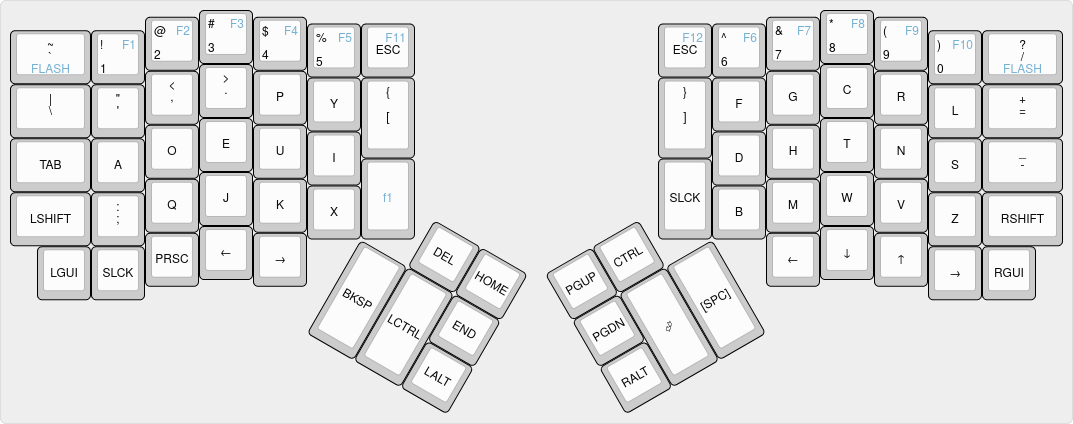
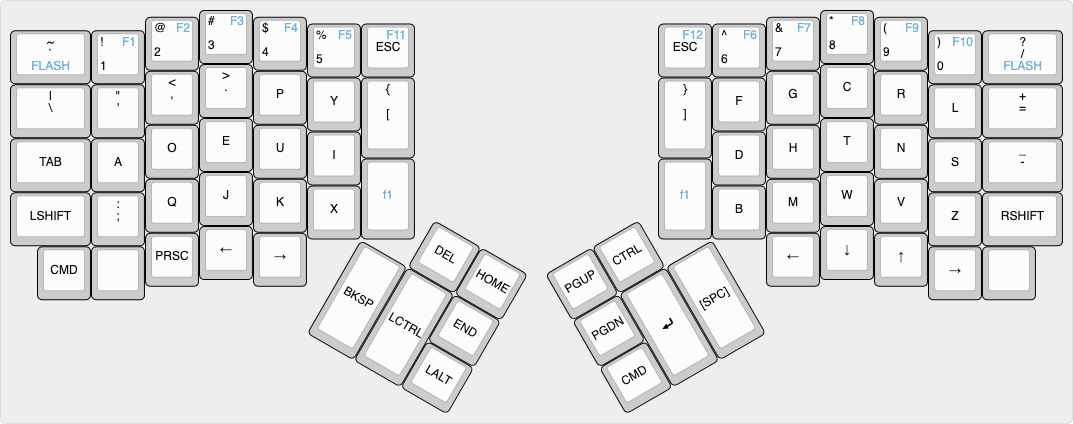
feat(qmk_ez_dvorak): Adjust layout for macOS usage
Put Cmd on the right thumb (replacing RAlt) since Cmd takes over most of
what Ctrl does on Linux, and keep Alt on the left thumb so Alt+Enter
(Aerospace terminal binding) stays a two-thumb chord. Drop the redundant
corner GUI keys and Scroll Lock (no longer used as compose), and replace
Print Screen with a Cmd+Shift+5 macro since macOS ignores the Print
Screen keycode.

diff --git a/qmk_ez_dvorak/keymap.c b/qmk_ez_dvorak/keymap.c
@@ -12,6 +12,7 @@ enum custom_keycodes {
   EPRM = SAFE_RANGE,
 #endif
   VRSN,
+  SCRSHOT,
   RGB_SLD
 };
 
@@ -24,17 +25,17 @@ const uint16_t PROGMEM keymaps[][MATRIX_ROWS][MATRIX_COLS] = {
  * |   \|   |   '  |   ,  |   .  |   P  |   Y  |  [{  |           |  ]}  |   F  |   G  |   C  |   R  |   L  |   =+   |
  * |--------+------+------+------+------+------|      |           |      |------+------+------+------+------+--------|
  * | Tab    |   A  |   O  |   E  |   U  |   I  |------|           |------|   D  |   H  |   T  |   N  |   S  |   -_   |
- * |--------+------+------+------+------+------|  f1  |           | SCRL |------+------+------+------+------+--------|
+ * |--------+------+------+------+------+------|  f1  |           |  f1  |------+------+------+------+------+--------|
  * | LShift |  ;:  |   Q  |   J  |   K  |   X  |      |           |      |   B  |   M  |   W  |   V  |   Z  | RShift |
  * `--------+------+------+------+------+-------------'           `-------------+------+------+------+------+--------'
- *   | LGUI | SCRL | PSCR | Left | Right|                                       | Left | Down |  Up  |Right | RGui |
+ *   | LGUI |      | Shot | Left | Right|                                       | Left | Down |  Up  |Right |      |
  *   `----------------------------------'                                       `----------------------------------'
  *                                        ,-------------.       ,-------------.
- *                                        | Del  | Home |       | PgUp |Ctrl/Esc|
+ *                                        | Del  | Home |       | PgUp | RCtrl  |
  *                                 ,------|------|------|       |------+--------+------.
  *                                 |      |      | End  |       | PgDn |        |      |
  *                                 | Back | Left |------|       |------| Enter  |Space |
- *                                 | Space| Ctrl | LAlt |       | RAlt |        |      |
+ *                                 | Space| Ctrl | LAlt |       | RGUI |        |      |
  *                                 `--------------------'       `----------------------'
  */
 [BASE] = LAYOUT_ergodox(
@@ -43,7 +44,7 @@ const uint16_t PROGMEM keymaps[][MATRIX_ROWS][MATRIX_COLS] = {
   DV_BSLS,         DV_QUOT,     DV_COMM,       DV_DOT,  DV_P,    DV_Y,    DV_LBRC,
   KC_TAB,          DV_A,        DV_O,          DV_E,    DV_U,    DV_I,
   KC_LSFT,         DV_SCLN,     DV_Q,          DV_J,    DV_K,    DV_X,    MO(FN),
-  KC_LGUI,         KC_SCRL,     KC_PSCR,       KC_LEFT, KC_RGHT,
+  KC_LGUI,         KC_NO,       SCRSHOT,       KC_LEFT, KC_RGHT,
                                                                  KC_DEL,  KC_HOME,
                                                                           KC_END,
                                                         KC_BSPC, KC_LCTL, KC_LALT,
@@ -51,11 +52,11 @@ const uint16_t PROGMEM keymaps[][MATRIX_ROWS][MATRIX_COLS] = {
   KC_ESC,          DV_6,        DV_7,          DV_8,    DV_9,    DV_0,    DV_SLSH,
   DV_RBRC,         DV_F,        DV_G,          DV_C,    DV_R,    DV_L,    DV_EQL,
                    DV_D,        DV_H,          DV_T,    DV_N,    DV_S,    DV_MINS,
-  KC_SCRL,         DV_B,        DV_M,          DV_W,    DV_V,    DV_Z,    KC_RSFT,
-                                KC_LEFT,       KC_DOWN, KC_UP,   KC_RGHT, KC_RGUI,
+  MO(FN),          DV_B,        DV_M,          DV_W,    DV_V,    DV_Z,    KC_RSFT,
+                                KC_LEFT,       KC_DOWN, KC_UP,   KC_RGHT, KC_NO,
   KC_PGUP,         KC_RCTL,
   KC_PGDN,
-  KC_RALT,         KC_ENT,      KC_SPC),
+  KC_RGUI,         KC_ENT,      KC_SPC),
 
 /* Keymap 1: Function layer
  *
@@ -104,6 +105,10 @@ bool process_record_user(uint16_t keycode, keyrecord_t *record) {
     switch (keycode) {
       case EPRM:
         eeconfig_init();
+        return false;
+      case SCRSHOT:
+        // macOS screenshot toolbar, since it ignores the Print Screen keycode.
+        tap_code16(G(S(KC_5)));
         return false;
       case VRSN:
         SEND_STRING (QMK_KEYBOARD "/" QMK_KEYMAP " @ " QMK_VERSION);
